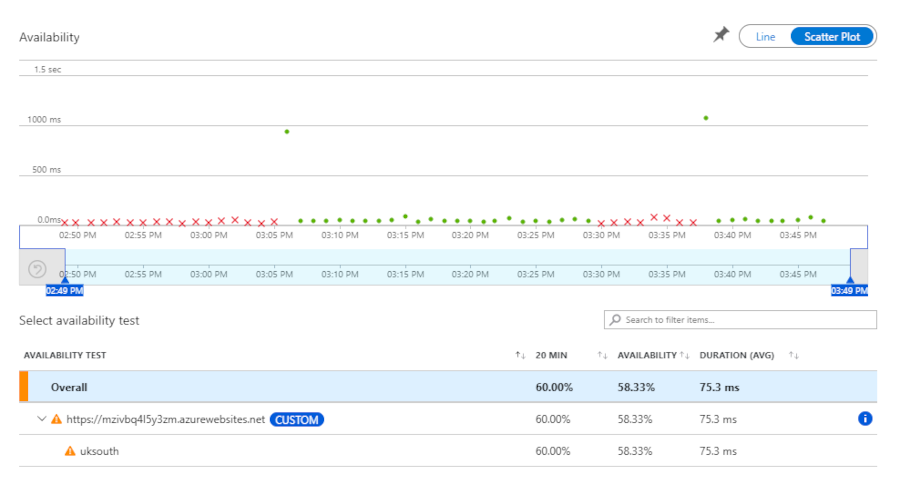
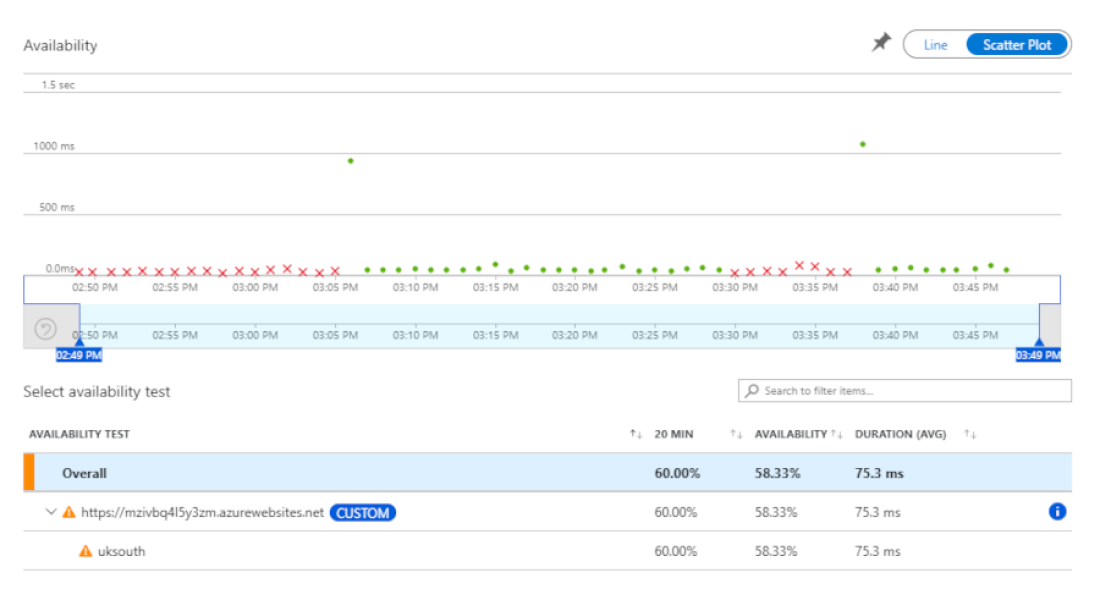
resize images

diff --git a/blog/assets/css/_custom.scss b/blog/assets/css/_custom.scss
@@ -15,3 +15,7 @@
 .page {
     max-width: 950px;
 }
+
+.single .featured-image img.lazyloaded {
+    width: auto;
+}

diff --git a/blog/content/posts/automating-azure-function-https-client-certs.md b/blog/content/posts/automating-azure-function-https-client-certs.md
@@ -12,6 +12,7 @@ tags:
 - security
 images:
 - /images/azure-functions-pwsh-certs.png
+featuredImage: /images/azure-functions-pwsh-certs-small.png
 summary: | 
     This post describes an approach for automating the management of private client HTTPS certificates in your Azure Function Apps.
 ---
